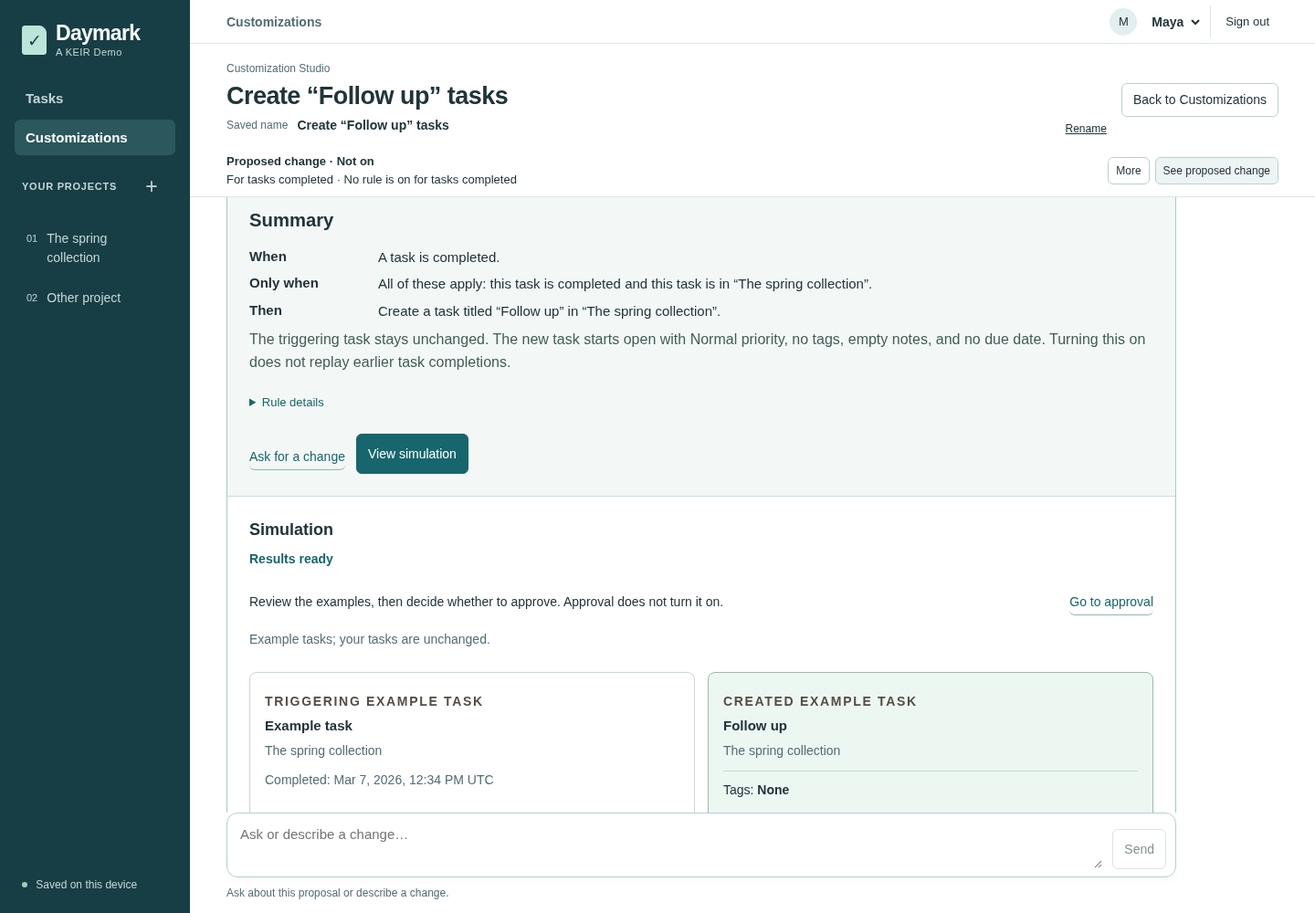
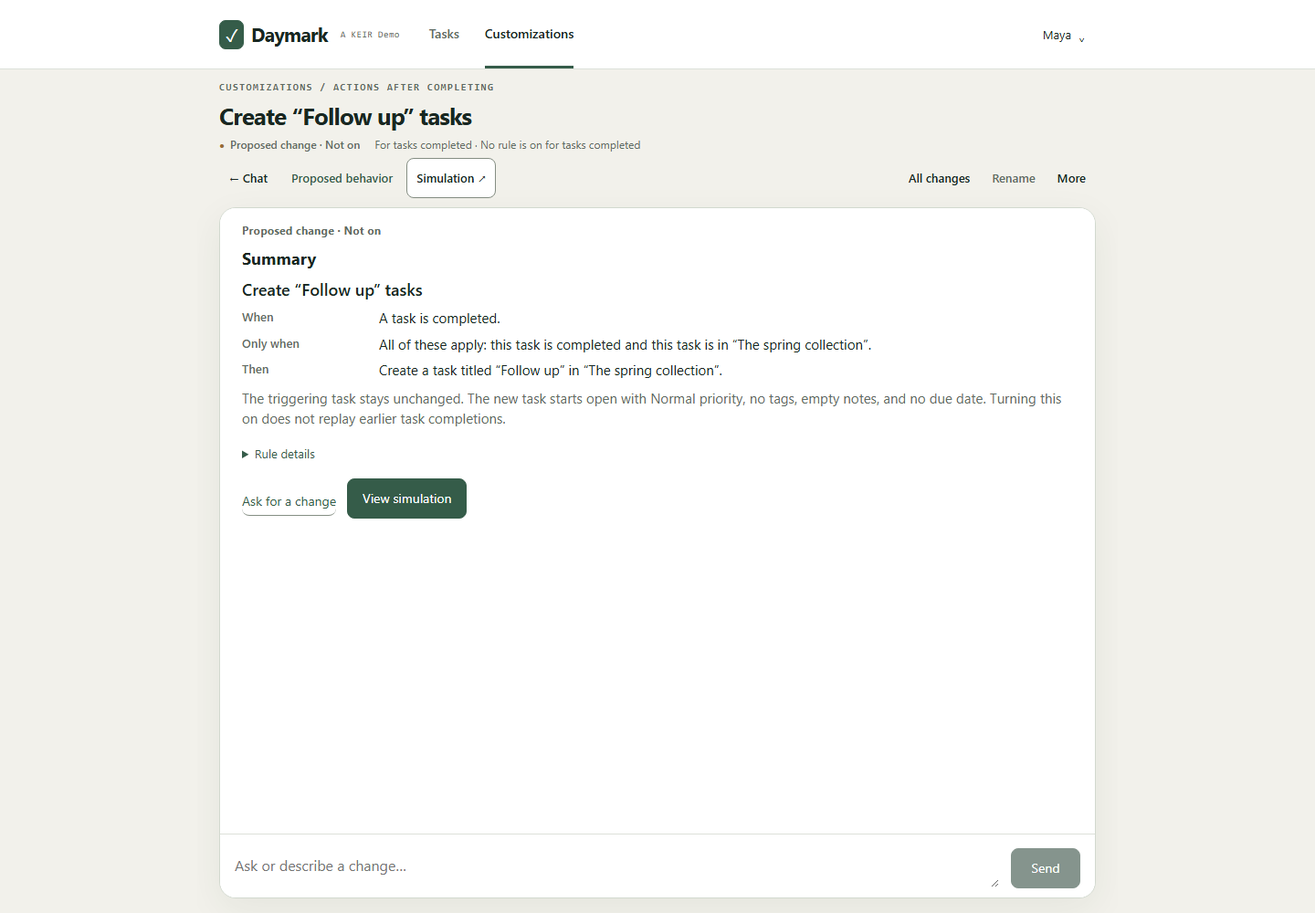
Sync Daymark walkthrough images and usability completion record

diff --git a/.agent-workflow/tasks/daymark-usability-followup.md b/.agent-workflow/tasks/daymark-usability-followup.md
@@ -1,0 +1,145 @@
+# Daymark usability correction
+
+Identity: `agent-workflow:daymark-usability-followup`. Owning feature: [Daymark visual polish](../../roadmap/features/daymark-visual-polish.md).
+App baseline: `c4d503a4c3f3c4898f1df30cdecb05fd7f3b2d25`. Core baseline: `422d7b508306eacb3dc0bce4b77bf081f12fc2cf`.
+
+<!-- agent-workflow:start -->
+**Outcome:**
+Person switching is direct, only task content scrolls in Tasks, and chat has demonstrably useful space.
+
+**Target:**
+Daymark workspace UI and its illustrated documentation.
+
+**Scope:**
+Correct person selection, Tasks scroll ownership and scrollbar styling, and chat allocation in existing components/styles. Add focused regression and refresh affected documentation captures.
+
+**Constraints:**
+Commit and push the verified correction and documentation in both repositories. No deployment, live app change, installed-tool change, paid call, new dependency, backend or schema change. Preserve supported controls, complete evidence, separate approval/activation, keyboard/focus, input, reading position and saved work. Preserve the existing documentation refresh.
+
+**Completion criteria:**
+Person switching has no nested picker. Scrolling a long task list leaves project heading, project tools, quick-add and search stationary. Scrollbars fit the existing visual language and remain usable. Identical conversation, viewport and reading position measurements compare corrected chat with published and pre-redesign builds, including short and narrow windows. Focus/input/reading and task search/paging/navigation regressions pass. Affected screenshots and text match the corrected UI, with independent technical and rendered review.
+
+**Requirement baseline:**
+{"source":"Owner usability feedback following the screenshot refresh","outcome":"Person switching is direct, only task content scrolls in Tasks, and chat has demonstrably useful space.","scope":"Correct person selection, Tasks scroll ownership and scrollbar styling, and chat allocation in existing components/styles. Add focused regression and refresh affected documentation captures.","constraints":"Repository edits and isolated tests only. No commit, push, deployment, live app change, installed-tool change, paid call, new dependency, backend or schema change. Preserve supported controls, complete evidence, separate approval/activation, keyboard/focus, input, reading position and saved work. Preserve the existing uncommitted documentation refresh.","completion_criteria":"Person switching has no nested picker. Scrolling a long task list leaves project heading, project tools, quick-add and search stationary. Scrollbars fit the existing visual language and remain usable. Identical conversation, viewport and reading position measurements compare corrected chat with published and pre-redesign builds, including short and narrow windows. Focus/input/reading and task search/paging/navigation regressions pass. Affected screenshots and text match the corrected UI, with independent technical and rendered review."}
+
+**Relationships:**
+{"schema_version":1,"sources":[{"provider":"minimap","scope_ref":"roadmap:v1:git:github.com/rore/keir-core#roadmap","local_ref":"item:v1:daymark-visual-polish"}],"pull_requests":[]}
+
+**Behavior changes:**
+[{"target":"task-context.constraints","classification":"requirement-change","before":"Repository edits and isolated tests only. No commit, push, deployment, live app change, installed-tool change, paid call, new dependency, backend or schema change. Preserve supported controls, complete evidence, separate approval/activation, keyboard/focus, input, reading position and saved work. Preserve the existing uncommitted documentation refresh.","after":"Commit and push the verified correction and documentation in both repositories. No deployment, live app change, installed-tool change, paid call, new dependency, backend or schema change. Preserve supported controls, complete evidence, separate approval/activation, keyboard/focus, input, reading position and saved work. Preserve the existing documentation refresh.","reason":"The owner authorized publication after completion of local qualification.","impact":"Allows commits and pushes in both repositories; does not authorize a live update or other environment changes.","alternatives":"Leave the verified changes uncommitted, as under the earlier boundary.","authority":{"scope":"task","name":"task-owner"},"approval":{"by":"user","reference":"Owner reply to the explicit question about committing and pushing both repositories","verbatim":"of course"}}]
+
+**Risk:** Elevated
+**Complexity:** Moderate
+**Reason:**
+Fresh intended-path Redline is GRAY in shadow mode. Shared scroll, selection and focus presentation need independent review; no domain authority or persistence contract change is intended.
+
+**Discovery:**
+The person control is a select inside an account disclosure, not customization Rename. Tasks puts its scroll ref and persisted offset on main. The task surface has no bounded results scroller. Studio reserves 280px for its behavior aside, adds substantial header/message padding, and retains a 600px minimum in short windows. Reuse the existing eight-message visual fixture and preserved pre-redesign assets for a matched comparison.
+
+**Material assumptions:**
+The existing working-document direction remains accepted. These are bounded corrections, not another broad redesign. Compare actual content geometry before choosing chat changes. If behavior or authority must change, return that part to planning.
+
+**Plan:**
+1. Preserve reviewed documentation and reproduce all findings in isolated fictional fixtures.
+2. Measure published and pre-redesign chat with identical content, viewport and reading position. Trace all selection, scroll restoration, filtering/paging and focus callers.
+3. Apply the reviewed minimal route: retain the centered canvas width and app-bar alignment, remove the duplicate permanent behavior aside, compact header/message padding and cap reading lines. Full Summary remains directly available from the header. Remove ordinary chat's short-window minimum-height overflow; verify full-document/More/restart reachability and use an accessible overflow fallback if necessary.
+4. Move the existing task scroll ref/offset handler to a bounded task-content container, retaining project-reset/navigation semantics and stationary tools. Replace nested person select with direct choices using the existing switch callback. Choose the smallest measured chat allocation correction.
+5. Build, run focused interaction/geometry regressions, review actual rendered results, and recapture affected docs. Commit and push both repositories under the owner's later publication authorization; leave the live app unchanged.
+
+**Verification plan:**
+Direct person selection → keyboard and pointer switch/sign-out checks with existing session isolation.
+Task-only scrolling → long open/completed/search lists, paging, heading/tools bounds, navigation restoration, project reset and task-dialog focus checks at desktop/narrow/short sizes.
+Useful chat space → same eight messages at identical top/middle/latest anchors, transcript/content width and height, visible content, chrome/composer geometry, no clipping or horizontal overflow.
+Preservation → existing Studio visual/reading/focus and workspace/search suites plus build; complete evidence and separate decisions remain accessible.
+Documentation → affected real-flow recapture, copied-image hashes/provenance, link/image rendering and independent review.
+
+**Plan review:**
+Agent technical review: architect bounded person/task PLAN GO and [CSS-first candidate PLAN GO](#plan-review). Designer directly inspected all three original images and matched renders. Their short-state reachability obligations are included below. Manager selected the designer's smaller centered-width/no-duplicate-aside route rather than the wider candidate; no new presentation state or evidence path is introduced.
+
+**Approvals:**
+Not required at this risk level. Following completed qualification, the owner answered “of course” to “Do you want me to commit and push both repositories?” This authorizes that publication only. The live app remains unchanged.
+
+**Exceptions:**
+—
+
+**State:** Ready for review
+<!-- agent-workflow:end -->
+
+## Implementation
+
+Repository correction, documentation alignment and qualification are complete. The following notes preserve the diagnosis and review sequence; final acceptance is recorded under Result review.
+The six app captures, four Core copies and four reader/provenance texts remain preserved. Their completed documentation review applies to rendered app `c4d503a` only. Reuse unchanged evidence, but do not claim those pixels represent a later UI revision.
+
+Matched measurements are complete on the same saved rule and eight messages. At 1440×1000, pre-redesign transcript geometry is 1120×691px, published geometry is 678×610px, and the isolated CSS candidate is 1126×724px. Candidate header height is 101px versus published 175px. It retains the 280px behavior aside and readable body text. At 1440×500 its composer stays within the window; the published layout can place it outside. Narrow transcript height improves from 423px to 485px.
+
+The comparison now aligns the same message IDs at top, middle and latest, rather than comparing fractions of logs containing different inline documents. Pre-redesign narrow/short layouts scroll the outer page and put the composer outside the window when the selected message is brought into view. Do not count that as a larger bounded chat area. At 1440px the candidate still shows six complete latest messages versus seven before redesign and three in the published build; no universal message-count win is claimed.
+
+All three original owner attachments were recovered byte-for-byte into ignored local evidence and directly inspected. Existing architect and designer received bounded read-only offers with the owning record, actual source and renders. Manager owns production implementation and all record writes. Production edits began only after the recorded plan review.
+
+## Plan review
+
+Independent architect source-traced plan GO covers direct person choices with current-person no-op, task scroll ownership/restoration/focus/paging, and the CSS-first chat correction. Candidate review requires real short/dynamic-state checks, especially 683×384, not just ordinary-chat screenshots. Exact review receipts remain in ignored local evidence.
+
+Designer inspected originals and current/candidate renders. Recommendations accepted: direct person buttons in the existing disclosure; one task-results scroller; centered width with duplicate aside removed; compact header/message padding; readable line caps; no blanket short-state clipping. Full Summary/Simulation/evidence and all controls remain. This is a bounded correction to the accepted direction, not a new broad prototype cycle.
+
+Before result acceptance verify actual hit targets and scrollable content for long names, active/current-use controls, setup/error/recovery notices, More, restart, full Summary/Simulation and decision actions at short sizes and breakpoint crossings. Preserve input and reading position, including asynchronous proof responses. Geometric message counts do not establish unobscured text or working product navigation.
+
+## Evidence
+
+Fresh intended-path report: GRAY, no detected API/schema/security/runtime-configuration change. Report used cached offline Python tooling; policy-schema validation was unavailable in that invocation. No installed tools or global configuration changed.
+
+Build passes. Six new account/task checks pass, including actual task scrolling with stationary heading/tools/quick-add/search and retained navigation position at 1440×1000, 626×500, 390×844, 390×500 and 683×384. Four new chat-space/input/More checks and one short active/setup-notice check pass. Existing shell and visual/reading/short-document checks passed before the final small short-height adjustment; the complete browser suite is running against the frozen final build.
+
+Node regression: 691 tests, 678 pass, 13 skips, zero failures. An initial invocation exposed the test runner's temporary-path separator assumption; rerunning with the native Windows path form passes without source or environment-installation changes.
+
+The final centered-width implementation deliberately differs from the wider experimental candidate. At 1440×1000 its transcript is 958×724px versus the published 678×610px and pre-redesign 1120×691px. Header is 101px versus published 175px. It keeps readable line caps rather than claiming every pre-redesign width or message-count metric is beaten. At the same latest-message anchor it shows five complete messages versus published three and pre-redesign seven. At 390×844 transcript height is 487px versus published 423px. The 500px-high ordinary-chat composer stays within the window.
+
+All six follow-up screenshots were recaptured against the frozen corrected build; the four Core copies match. Real compilation/simulation, explicit Rename/Save, separate approval/activation, unchanged tasks before activation, native Follow up creation/readback, no new AI during execution and zero page errors pass. Provenance explicitly identifies an uncommitted correction based on the published revision, not the published revision itself. All ten image hashes, 89 local links, 14 fragments and desktop/390px responsive image embeds pass. Hosted GitHub rendering remains unverified because the work is unpublished.
+
+### Regression correction
+
+The first full browser attempt exposed short full-document decision visibility and historical reading-position failures. It was stopped rather than running a known-broken build to completion; its log and failure traces were preserved. No failed check is counted as passing.
+
+Root correction: keep the compact grid header and viewport-fit minimum for ordinary chat, but retain a stable stacked header and the established short-document scroll extent for Summary, Simulation and management. This avoids conditional actions changing title wrapping above an inspected example and keeps the existing focus/scroll-inset routes intact. No focus helper, authority logic or assertion was weakened.
+
+Independent result review also found that stretching the task sidebar changed the project popup's containing block. Anchor the popup to its disclosure. Reserve popup clearance below the independently scrolling long project list and open it upward in the short sidebar arrangement. New checks cover forty projects, both New/Rename actions fully in view and hit-testable without corrective scrolling, stationary controls, zero outer task scroll and Escape focus return.
+
+All 17 targeted failure/recovery and popup checks now pass. This includes the previously failing short approval/activation/history paths and held historical reading, ordinary short chat, active setup notices, document return and resize/prepend anchors. A fresh 312-case browser run uses two isolated workers and a separate output directory; final totals are pending. The source/build/capture freeze is being advanced only after the targeted correction passes.
+
+The documentation reviewer identified two stale overview phrases in `tests/README.md`; both are corrected. The obsolete logged-out select assertion now checks the actual person-choice buttons rather than an always-absent combobox.
+
+Final capture identity is frozen after those fixes, including changed test bytes. Only Summary/Simulation/approved screenshots changed from the first correction capture; request/native-outcome/saved-task images are byte-identical. All four Core copies are synchronized. Both provenance pages name the final stylesheet hash. Expanded verification passes 98 local links, 15 fragments, 11 text files and all ten image/copy hashes and responsive embeds.
+
+Documentation delta review also found an inaccurate Core image description claiming that the creation outcome was visible behind the Task details modal. The alt text now describes only the visible saved-task form. The preceding native-outcome image remains the evidence of task creation; no unnecessary recapture was added for that wording.
+
+### Final qualification reconciliation
+
+The complete 312-case run finished with 311 passes and one failure in 8.1 minutes. The remaining failure was the existing narrow-screen project-popup bounds assertion: anchoring to the narrow disclosure placed the popup beyond the viewport.
+
+The final two-declaration correction anchors the ordinary mobile-row popup to its full-width project context. The short sidebar-column arrangement explicitly retains the positioned disclosure and upward opening. Desktop, ordinary chat, full-document behavior and JavaScript are unchanged. Two added popup cases cover 390×844 and 390×500.
+
+The complete affected native, visual-polish and workspace-usability files then pass 51/51 in one minute, including the formerly failing case, four popup viewports, project CRUD, search paging, person/authentication isolation, forms, dialogs, focus, reading and short-document behavior. The broad run's 263 cases outside those files are reused. Combined acceptance covers all 314 current browser cases: 263 unchanged broad passes plus 51 final affected passes. This is a reconciled qualification, not a claim that one clean 314-case run occurred.
+
+Final real-flow recapture passes against the new frozen assets. All six images are byte-identical to the documentation-approved set, and all four Core copies still match. Only the inactive-at-desktop mobile popup CSS changed; both provenance stylesheet hashes are updated. Node's 678 passes and 13 skips are reused because backend and JavaScript bytes are unchanged.
+
+## Result review
+
+The independent designer gives scoped rendered GO for the centered correction, based on direct original-image and actual-render inspection. This covers direct person choices, stationary task composition, reclaimed ordinary chat space, readable line caps and short/narrow composer visibility. It excludes universal message-count superiority, full regression, publication and owner acceptance. Later changes affect popup placement and full-document stability, not those ordinary-chat renders; their exact new asset identity is separately frozen.
+
+Agent technical review: independent architect result review, bounded popup/document correction GO and final mobile-popup/reconciliation DELTA GO. Exact receipts remain in ignored evidence. The final reviewer independently verified that reversing only the two mobile CSS declarations and two new viewport entries reproduces the previously reviewed source/test hashes. No unresolved source or coverage blocker remains.
+
[1 lines of base64/hex data omitted]
+
+Verification adequacy: accepted for the bounded final delta. The reviewer independently reconciled log rows by file and test title: 263 unaffected broad passes plus 51 final affected passes cover all 314 current cases with zero unresolved failures. Preserve the stated combined-run limit. Earlier unit, document/reading/authority and rendered evidence is reused only where unchanged. Build, final real-flow capture, source/test/asset identity, copied screenshots, links, responsive image rendering, whitespace and privacy checks pass.
+
+Documentation review approves the final image/provenance/navigation delta. Both text findings are corrected and read back. A final recapture confirms all six approved image hashes are unchanged after the mobile-only CSS fix. Both guides use the corresponding local images and exact Core copies. Hosted GitHub rendering and physical-device/other-browser qualification are not claimed.
+
+Manager accepts the combined outcome. Supported behavior, exact evidence, separate decisions, input, focus, reading and saved work remain covered. The initial edit-only scope was complete before the owner authorized the publication phase below.
+
+## Publication
+
+The owner explicitly authorized committing and pushing both repositories after qualification. Both remote main branches still match the reviewed task bases. Commit identity is verified as the personal repository identity. Publish the app correction first, then pin its exact commit in Core's image provenance and completion record. Do not force push or alter unrelated checkouts. No deployment or live update is authorized.
+
+The app correction is committed and pushed to main as [`79a4b885a2c657e5b17aaddf8fd32077f523fa53`](https://github.com/rore/keir-demo-app/commit/79a4b885a2c657e5b17aaddf8fd32077f523fa53). Remote-head readback matches. Core's four image copies and reader provenance now pin that exact published source. This record accompanies the synchronized Core documentation publication. The live app remains unchanged.
+
+Skill feedback trigger 2 dropped: the reviewed corrections concern consumer UI layout and coverage, not Agent Workflow behavior.

diff --git a/roadmap/features/daymark-visual-polish.md b/roadmap/features/daymark-visual-polish.md
@@ -40,3 +40,29 @@ A new product workflow/wizard, removing supported controls or required explanati
 The [Work Record](../../.agent-workflow/tasks/daymark-visual-polish.md) owns scope and verification. The earlier tested candidate was visually rejected. The accepted working-document composition is implemented and published in [Daymark `c4d503a`](https://github.com/rore/keir-demo-app/commit/c4d503a4c3f3c4898f1df30cdecb05fd7f3b2d25). Final independent code/coverage and visual/interaction reviews approve the exact delivered build. The existing local app is updated with preserved data/settings.
 
 Local qualification reconciled all 298 original browser cases plus one new short-screen case. The final affected checks pass 40/40 and the last navigation/reading cases pass 2/2 on identical frozen source. Subsequent [hosted CI](https://github.com/rore/keir-demo-app/actions/runs/43939613525) passes the full **299/299 browser suite** and **679 Node tests with 12 skips**, zero failures, in a 13m38s job. Fresh backup, exact served-asset checks and actual saved-work desktop/mobile readback verify all 22 tables, schema and settings unchanged. Task previews and the completed app task checkout are removed after compact evidence preservation; the retained live checkout remains.
+
+## Screenshot documentation follow-up
+
+The application delivery above is complete. A later audit found that updated walkthrough prose still used six older screenshots, with four unchanged copies in the Core tour. The user authorized replacing relevant screenshots and accompanying text in isolated repository edits only: no commit, push or live-environment change.
+
+The first refresh captured the same follow-up journey on published app `c4d503a`, using fictional offline authoring with the real compiler, simulator and native task service. Both guides, provenance and copied-image hashes were aligned and independently reviewed. The later mixed usability correction below supersedes affected captures; historical records and the original capture evidence remain preserved.
+
+- [x] Replace all six walkthrough images and four Core copies for published `c4d503a`.
+- [x] Verify that capture set's captions, provenance, 89 local links, 14 fragments and responsive image embeds.
+- [x] Finish independent documentation review of that frozen capture set and retain the uncommitted edits.
+
+## Owner usability correction
+
+Later owner feedback identifies nested person selection, an untreated scrollbar scrolling the whole Tasks page, and reduced useful chat space. The [usability correction Work Record](../../.agent-workflow/tasks/daymark-usability-followup.md) owns this bounded mixed task. Keep the accepted visual direction, but make task content scroll independently of heading/tools/quick-add/search and verify chat against the pre-redesign build with identical content, window and reading position.
+
+This correction initially allowed only repository edits and isolated tests. The owner later authorized committing and pushing both repositories, but not a live change. Original delivery and its CI evidence above remain historical completion evidence, not acceptance of this follow-up.
+
+- [x] Correct direct person selection, task-only scrolling and scrollbar treatment.
+- [x] Demonstrate useful chat space with matched before/after measurements and rendered review.
+- [x] Pass focused behavior/focus/input/reading regression and refresh affected documentation.
+
+The correction is complete and published in [Daymark `79a4b88`](https://github.com/rore/keir-demo-app/commit/79a4b885a2c657e5b17aaddf8fd32077f523fa53), with synchronized Core documentation. At 1440×1000 the centered transcript grows from the earlier published 678×610px to 958×724px; full Summary remains directly available without a permanent duplicate sidebar. Native project tools and task content retain usable independent scrolling at desktop, narrow and short sizes.
+
+Independent technical, rendered and documentation reviews accept the bounded outcome. Browser qualification reconciles all 314 current cases: 263 unaffected broad passes plus 51 final affected passes, after fixing the complete run's one remaining narrow-menu failure. Node checks pass 678 with 13 skips and zero failures. Build, real follow-up capture/readback, all six app screenshots and four exact Core copies, 98 local links, 15 fragments and desktop/390px image rendering pass. The Work Record preserves exact review/build identities, failure reconciliation and qualification limits.
+
+Publication follows the owner's explicit commit/push authorization. Core's four image copies pin the exact app commit. Task checkouts are retained through hosted CI reconciliation, then can be cleaned after compact evidence preservation. No live update or unrelated environment change was made.

diff --git a/docs/images/daymark-walkthrough/README.md b/docs/images/daymark-walkthrough/README.md
@@ -1,8 +1,8 @@
 # Walkthrough image provenance
 
-These four images are copied unchanged from Daymark's documentation in `rore/keir-demo-app`, commit [`f9ea7690adc7eeb9ee617ef6d727bb1d848688b9`](https://github.com/rore/keir-demo-app/commit/f9ea7690adc7eeb9ee617ef6d727bb1d848688b9), under `docs/images/walkthrough/`. The [source walkthrough](https://github.com/rore/keir-demo-app/blob/f9ea7690adc7eeb9ee617ef6d727bb1d848688b9/docs/customization-walkthrough.md) and [capture provenance](https://github.com/rore/keir-demo-app/blob/f9ea7690adc7eeb9ee617ef6d727bb1d848688b9/docs/images/walkthrough/provenance.md) are pinned to that same commit. Access to Daymark is optional: the Core tour uses these local copies.
+These four images are copied unchanged from Daymark commit [`79a4b885a2c657e5b17aaddf8fd32077f523fa53`](https://github.com/rore/keir-demo-app/commit/79a4b885a2c657e5b17aaddf8fd32077f523fa53), under `docs/images/walkthrough/`. The [source walkthrough](https://github.com/rore/keir-demo-app/blob/79a4b885a2c657e5b17aaddf8fd32077f523fa53/docs/customization-walkthrough.md) and [capture provenance](https://github.com/rore/keir-demo-app/blob/79a4b885a2c657e5b17aaddf8fd32077f523fa53/docs/images/walkthrough/provenance.md) are pinned to that same commit. They were captured on 17 November 2026 from the reviewed usability correction. The hashes below identify the exact copied capture set. Access to Daymark is optional: the Core tour uses these local copies.
 
-The capture provenance identifies the rendered application revision as `2e8516927276d8313793b15e9717e88cde46988f`, before these refreshed images were committed. The images show the verified Studio polish: a structured Summary, recorded simulation values, a separately approved version and the native saved result. The earlier Core copies remain in Git history.
[1 lines of base64/hex data omitted]
 
 They are genuine application screenshots using fictional, disposable data. Authoring replies were scripted by Daymark's offline test fixture; compilation, simulation, approval, activation and native task writes were real. The saved customization name was explicitly chosen through Rename and Save. These are not generated UI images or evidence of live model responses. No paid AI requests were made for this capture.
 
@@ -10,7 +10,7 @@ Daymark's documentation is licensed under Apache License 2.0. No separate licens
 
 | File | Bytes | SHA-256 |
 | --- | ---: | --- |
[8 lines of base64/hex data omitted]

diff --git a/docs/guided-tour.md b/docs/guided-tour.md
@@ -5,7 +5,7 @@
 
 Follow a request through a proposed change, simulated checks, approval, activation and a saved result. The screens below show Daymark, an example application built around Keir. Daymark supplies the assistant, screens, review and activation flow, and task services. Keir supplies the compiler and runtimes that check and execute the extension.
 
-These are real application screenshots with fictional, disposable data. The assistant's replies were scripted by an offline test fixture; compilation, simulation, approval, activation and task saves were real. See [image provenance and license](images/daymark-walkthrough/README.md).
+These screenshots show Daymark's working-document design with its usability correction and fictional, disposable data. The assistant's replies were scripted by an offline test fixture; compilation, simulation, approval, activation and task saves were real. See [image provenance and license](images/daymark-walkthrough/README.md).
 
 <a id="customer-extension-design"></a>
 <a id="what-the-extension-chooses"></a>
@@ -16,7 +16,7 @@ A user asks:
 
 > When a task in this project is completed, create a follow-up.
 
-The assistant turns the request into a proposed extension using the operations the application exposes. Keir's compiler checks it against the application's model. Daymark's **Summary** separates **When**, **Only when** and **Then**, so the user can review the proposed behavior and ask for a change before continuing. The full explanation remains available under **Rule details**.
+The assistant turns the request into a proposed extension using the operations the application exposes. Keir's compiler checks it against the application's model. The user chooses **Proposed behavior** to open Daymark's full **Summary**, which separates **When**, **Only when** and **Then**. The full explanation remains available under **Rule details**. **Chat** returns to the conversation without approving the proposal.
 
 ![Daymark's proposed Summary separates When, Only when and Then, while the customization is marked Not on.](images/daymark-walkthrough/02-summary.png)
 
@@ -49,7 +49,7 @@ After the application saves a matching task completion, it invokes Keir's runtim
 
 Daymark shows the customization's outcome separately from the original completion. The user can open the created task in the ordinary task editor and inspect the saved result.
 
-![The follow-up is open in Daymark's normal Task details form, with the creation outcome visible behind it.](images/daymark-walkthrough/06-saved-task.png)
+![The follow-up is open in Daymark's normal Task details form.](images/daymark-walkthrough/06-saved-task.png)
 
 *In this run, the follow-up is saved application data that the user can open and edit. It is no longer just a simulated result.*
 
